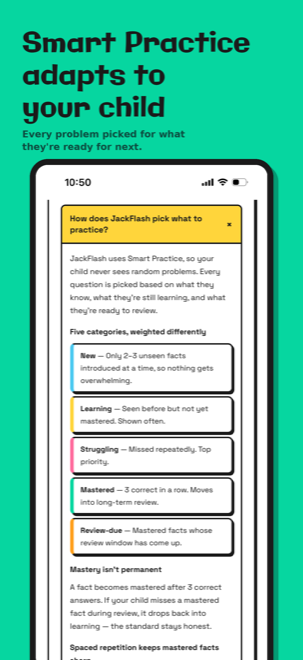
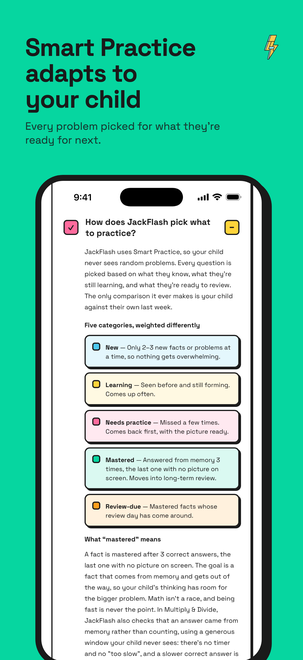
App Store screenshots: new iPhone 6.9" set from the store build
Six frames recaptured on the iPhone 17 Pro Max simulator (store build, demo
profiles Olive/Leo/Maya) and composed per the screenshot spec. Captions
follow the messaging guide: frame 3 is the tagline (Concrete mode, building
6 x 7), frame 4 "Mastered means from memory", frame 6 "Progress you can
see" (no clock, no race) replacing "Streaks and badges keep them coming
back". The landing page's frame strip and alt text use the new set. iPad
13" set to follow.

diff --git a/public/landing.html b/public/landing.html
@@ -272,16 +272,16 @@
         <img src="./landing/frames/frame2_smartpractice.png" alt="Smart Practice adapts to your child — five categories on green" />
       </button>
       <button type="button" class="shot-thumb" data-index="2">
-        <img src="./landing/frames/frame3_practice.png" alt="See the math, don’t just guess — practice screen on blue" />
+        <img src="./landing/frames/frame3_practice.png" alt="See it. Get it. Keep it. — building 6 × 7 in groups on blue" />
       </button>
       <button type="button" class="shot-thumb" data-index="3">
-        <img src="./landing/frames/frame4_mastery.png" alt="Mastery that actually sticks — practice sets on pink" />
+        <img src="./landing/frames/frame4_mastery.png" alt="Mastered means from memory — mastery grid on pink" />
       </button>
       <button type="button" class="shot-thumb" data-index="4">
         <img src="./landing/frames/frame5_parentzone.png" alt="Parents see what matters — parent zone on purple" />
       </button>
       <button type="button" class="shot-thumb" data-index="5">
-        <img src="./landing/frames/frame6_badges.png" alt="Streaks and badges keep them coming back — on orange" />
+        <img src="./landing/frames/frame6_badges.png" alt="Progress you can see — no clock, no race — badges on orange" />
       </button>
     </div>
   </section>

diff --git a/public/landing/landing.js b/public/landing/landing.js
@@ -118,10 +118,10 @@
   var frames = [
     { src: "./landing/frames/frame1_profiles.png", alt: "One app. Every child’s level — profiles screen on yellow" },
     { src: "./landing/frames/frame2_smartpractice.png", alt: "Smart Practice adapts to your child — five categories on green" },
-    { src: "./landing/frames/frame3_practice.png", alt: "See the math, don’t just guess — practice screen on blue" },
-    { src: "./landing/frames/frame4_mastery.png", alt: "Mastery that actually sticks — practice sets on pink" },
+    { src: "./landing/frames/frame3_practice.png", alt: "See it. Get it. Keep it. — building 6 × 7 in groups on blue" },
+    { src: "./landing/frames/frame4_mastery.png", alt: "Mastered means from memory — mastery grid on pink" },
     { src: "./landing/frames/frame5_parentzone.png", alt: "Parents see what matters — parent zone on purple" },
-    { src: "./landing/frames/frame6_badges.png", alt: "Streaks and badges keep them coming back — on orange" }
+    { src: "./landing/frames/frame6_badges.png", alt: "Progress you can see — no clock, no race — badges on orange" }
   ];
 
   var lightbox = document.getElementById("lightbox");

diff --git a/JackFlash-Screenshot-Spec.md b/JackFlash-Screenshot-Spec.md
@@ -1,5 +1,7 @@
 # JackFlash — App Store Screenshot Design Spec
 
+> **Updated 2026-10-12.** Frames are rendered and live in `screenshots/appstore/` (iPhone 6.9" and iPad 13"), captured from the store build with demo profiles Olive, Leo and Maya. Caption changes from this draft, to follow `docs/voice-and-messaging.md`: frame 3 is now the tagline **"See it. Get it. Keep it."** (Concrete mode, building 6 × 7), frame 4 is **"Mastered means from memory"**, and frame 6 is **"Progress you can see"** with "No clock, no race" in the subline. The old frame 6 caption ("Streaks and badges keep them coming back") is on the messaging guide's don't-say list.
+
 Draft v1 · Marketing screenshots for the Apple App Store (iPhone + iPad).
 Pairs with `JackFlash-AppStore-Listing.md` — the six caption headlines come from that doc's "Screenshot Caption Headlines" section.
 

diff --git a/JackFlash-AppStore-Listing.md b/JackFlash-AppStore-Listing.md
@@ -89,10 +89,12 @@ Short, benefit-led lines to pair with each screenshot:
 
 1. One app. Every child's level.
 2. Smart Practice adapts to your child
-3. See the math — don't just guess
+3. See it. Get it. Keep it.
 4. Mastered means from memory
 5. Parents see what matters
-6. Free to start. $3.99 once. No subscription.
+6. Progress you can see *(subline: "No clock, no race. Badges celebrate showing up and steady work.")*
+
+Rendered frames (2026-10-12, from the store build on the simulators with demo data): `screenshots/appstore/iphone-6.9/` (1320 × 2868) and `screenshots/appstore/ipad-13/` (2064 × 2752).
 
 ---
 
